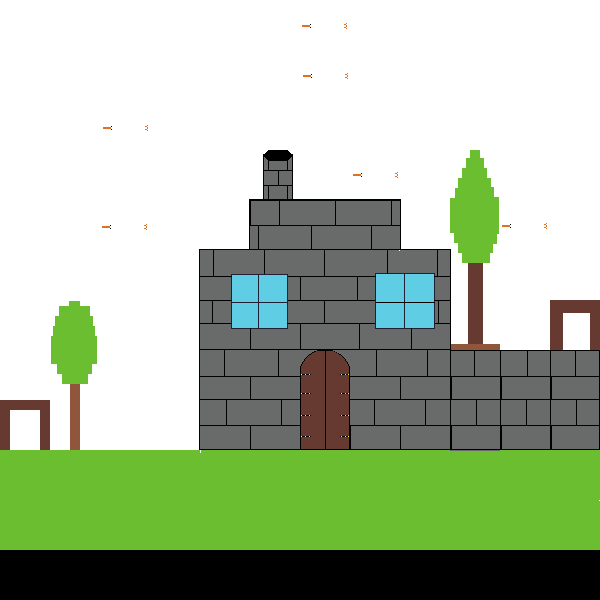
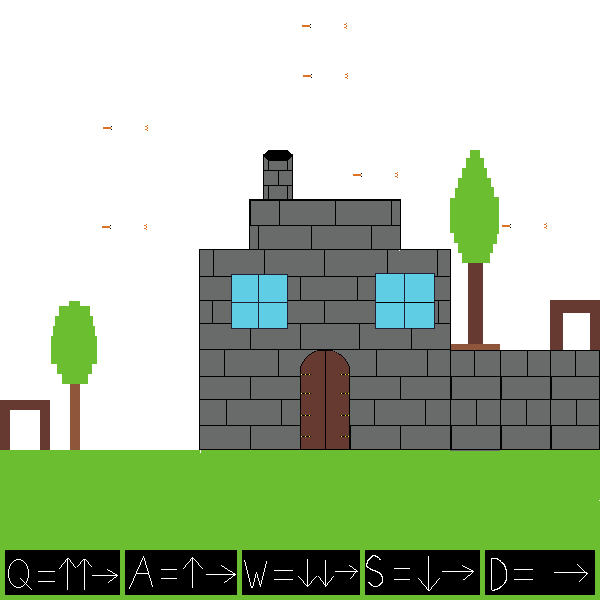
Final Screens all linked together

Changed region(s): [[0.0, 0.9, 1.0, 1.0], [0.09, 0.93, 0.15, 0.96], [0.3, 0.93, 0.33, 0.96]]

diff --git a/game.js b/game.js
@@ -9,26 +9,61 @@ let game = new Application({
     width: 600});
 var player;
 var state;
+var counterX;
+counterX = 1;
+
 document.body.appendChild(game.view);
 pre.add("player.png");
-pre.add("chef.png");
 pre.add("game.png");
+pre.add("WelcomeScreen.png");
+pre.add("credits.png");
+pre.add("blowup.png");
 pre.load(setStage);
     
-function setStage() {
-maze = new Sprite(resources["game.png"].texture);
-player = new Sprite(resources["player.png"].texture);
+let instructions = new PIXI.Text('Press 2 for Instructions', {fontFamily : 'Arial', fontSize: 15, fill : 0x000000, visible : true});
 
-maze.x = 0;
-maze.y = 0;
+let instructionsReal1 = new PIXI.Text('Instructions: Take your hot air balloon to the other side of the castle.' , {fontFamily : 'Arial', fontSize: 15, fill : 0x000000, visible : true});
+let instructionsReal2 = new PIXI.Text('Watch out for obsticles!' , {fontFamily : 'Arial', fontSize: 15, fill : 0x000000, visible : true});
+let instructionsReal3 = new PIXI.Text('If you hit a bird, tree, or the castle you will have to restart. (you can hit the clouds).', {fontFamily : 'Arial', fontSize: 15, fill : 0x000000, visible : true});
+let instructionsReal4 = new PIXI.Text('Controls: (also included at the bottom of the screen during play) ', {fontFamily : 'Arial', fontSize: 15, fill : 0x000000, visible : true});
+let instructionsReal5 = new PIXI.Text('Q: Move 2 Up (and 1 Right)', {fontFamily : 'Arial', fontSize: 15, fill : 0x000000, visible : true});
+let instructionsReal6 = new PIXI.Text('W: Move 2 Down (and 1 Right)', {fontFamily : 'Arial', fontSize: 15, fill : 0x000000, visible : true});
+let instructionsReal7 = new PIXI.Text('A: Move 1 Up (and 1 Right)', {fontFamily : 'Arial', fontSize: 15, fill : 0x000000, visible : true});
+let instructionsReal8 = new PIXI.Text('S: Move 1 Down (and 1 Right)', {fontFamily : 'Arial', fontSize: 15, fill : 0x000000, visible : true});
+let instructionsReal9 = new PIXI.Text('D: Move 1 Right', {fontFamily : 'Arial', fontSize: 15, fill : 0x000000, visible : true});
+
+
+
+let welcomeScreenText = new PIXI.Text('Press 1 to go to Welcome Screen', {fontFamily : 'Arial', fontSize: 15, fill : 0x000000, visible : true});
+
+let startGame = new PIXI.Text('Press 1 to Start Game', {fontFamily : 'Arial', fontSize: 15, fill : 0x000000, visible : true});
+
+
+
+function setStage() {
+background = new Sprite(resources["game.png"].texture);
+player = new Sprite(resources["player.png"].texture);
+welcomeScreen = new Sprite(resources["WelcomeScreen.png"].texture);
+credits = new Sprite(resources["credits.png"].texture);
+gameOver = new Sprite(resources["blowup.png"].texture);
+
+startGame.position.set(220, 319);
+game.stage.addChild(startGame);
+    
+instructions.position.set(220, 382);
+game.stage.addChild(instructions);
+    
+background.x = 0;
+background.y = 0;
 player.x = 0;
-player.y = 300; 
+player.y = 300;
 player.vx = 0;
 player.vy = 0;
+welcomeScreen.x = 0;
+welcomeScreen.y = 0;
 
-game.stage.addChild( maze );
-game.stage.addChild( player );
-
+game.stage.addChild( welcomeScreen );
+    
 let aKey = keyboard( 65 );
 let dKey = keyboard( 68 );
 let wKey = keyboard( 87 );
@@ -36,45 +71,47 @@ let sKey = keyboard( 83 );
 let qKey = keyboard(81);
 let enterKey = keyboard( 13 );
     
-enterKey.press = () =>{        
+    
+    player.x = 0;
+player.y = 300; 
 qKey.press = () => {
   player.x = player.x + 50;
     player.y = player.y - 100;
-    console.log("Player X = " + player.x);
-    console.log("Player Y = " + player.y);
+    //console.log("Player X = " + player.x);
+    //console.log("Player Y = " + player.y);
 };
     
 wKey.press = () => {
   player.x = player.x + 50;
     player.y = player.y + 100;
-    console.log("Player X = " + player.x);
-    console.log("Player Y = " + player.y);
+    //console.log("Player X = " + player.x);
+    //console.log("Player Y = " + player.y);
 };
 
 aKey.press = () => {
   player.x = player.x + 50;
     player.y = player.y - 50;
-    console.log("Player X = " + player.x);
-    console.log("Player Y = " + player.y);
+    //console.log("Player X = " + player.x);
+    //console.log("Player Y = " + player.y);
 };
     
 sKey.press = () => {
   player.x = player.x + 50;
     player.y = player.y + 50;
-    console.log("Player X = " + player.x);
-    console.log("Player Y = " + player.y);
+    //console.log("Player X = " + player.x);
+    //console.log("Player Y = " + player.y);
 };
     
 dKey.press = () => {
   player.x = player.x + 50;
     player.y = player.y + 0;
-    console.log("Player X = " + player.x);
-    console.log("Player Y = " + player.y);
+    //console.log("Player X = " + player.x);
+    //console.log("Player Y = " + player.y);
 };
-}
-        
+     
 state = play;
-game.ticker.add( delta => gameLoop( delta ) );}
+game.ticker.add( delta => gameLoop( delta ) );
+}
 
 function gameLoop( delta )
 {
@@ -83,23 +120,22 @@ state( delta );
 
 function play( delta ) 
 {
-player.x += player.vx;
-player.y += player.vy;
 bounds();
 balloonCollider();
-finish();
+runEverything();
 }
 
 function bounds()
 {
 if(player.x < 0 || player.y < 0)
 {
-window.setTimeout(resetPlayer, 300);
+    window.setTimeout(resetPlayer, 300);
 }
 if(player.x > 550 || player.y > 500)
 {
-window.setTimeout(resetPlayer, 300);
-}}
+    window.setTimeout(resetPlayer, 300);
+}
+}
 
 function balloonCollider()
 {
@@ -119,7 +155,7 @@ function balloonCollider()
     {
         window.setTimeout(resetPlayer, 300);
     }
-        if(player.x == 200 && (player.y >= 250 ))
+        if(player.x == 200 && (player.y >= 200 ))
     {
         window.setTimeout(resetPlayer, 300);
     }
@@ -135,12 +171,10 @@ function balloonCollider()
     {
         window.setTimeout(resetPlayer, 300);
     }
-    if(player.x == 350 && (player.y >= 150) )
+    if(player.x == 350 && (player.y >= 100) )
     {
         window.setTimeout(resetPlayer, 300);
     }
-    
-    
     if(player.x == 400 && (player.y >= 200) )
     {
         window.setTimeout(resetPlayer, 300);
@@ -157,18 +191,123 @@ function balloonCollider()
 
 function resetPlayer()
 {
+    console.log("player was at" + player.x + ","  + player.y + "so playerReset was called and the death animation popped up");
     player.x = 0;
     player.y = 300;
+    game.stage.addChild(gameOver);
+    game.stage.removeChild(background);
+    window.setTimeout(removeCrash, 800);
+    return;
 }
+
+function removeCrash()
+{
+    game.stage.removeChild(gameOver);
+    game.stage.addChild(background);
+}
+
+function runEverything()
+{
+    let oneKey = keyboard( 49 );
+    let twoKey = keyboard( 50 );
+
+    if(player.x == 0 && player.y == 300)
+    {
+        console.log("player is at" + player.x + ", " + player.y + "... so we are in the 0,300 if statement");
+        oneKey.press = () => 
+        {
+            game.stage.removeChild(welcomeScreen);
+            game.stage.addChild(background);
+            game.stage.addChild(player);
+            game.stage.removeChild(instructions);
+            game.stage.removeChild(startGame);
+            game.stage.removeChild(instructionsReal1);
+            game.stage.removeChild(instructionsReal2);
+            game.stage.removeChild(instructionsReal3);
+            game.stage.removeChild(instructionsReal4);
+            game.stage.removeChild(instructionsReal5);
+            game.stage.removeChild(instructionsReal6);
+            game.stage.removeChild(instructionsReal7);
+            game.stage.removeChild(instructionsReal8);
+            game.stage.removeChild(instructionsReal9);
+            return;
+        };
+        twoKey.press = () => 
+        {
+            if(player.x != 0 && player.y != 300)
+            {
+            game.stage.removeChild(instructionsReal1);
+            game.stage.removeChild(instructionsReal2);
+            game.stage.removeChild(instructionsReal3);
+            game.stage.removeChild(instructionsReal4);
+            game.stage.removeChild(instructionsReal5);
+            game.stage.removeChild(instructionsReal6);
+            game.stage.removeChild(instructionsReal7);
+            game.stage.removeChild(instructionsReal8);
+            game.stage.removeChild(instructionsReal9);
+            }
+            else{
+            instructionsReal1.position.set(25, 450);
+            game.stage.addChild(instructionsReal1);
+            instructionsReal2.position.set(25, 470);
+            game.stage.addChild(instructionsReal2);
+            instructionsReal3.position.set(25, 490);
+            game.stage.addChild(instructionsReal3);
+            instructionsReal4.position.set(25, 510);
+            game.stage.addChild(instructionsReal4);
+            instructionsReal5.position.set(25, 530);
+            game.stage.addChild(instructionsReal5);
+            instructionsReal6.position.set(25, 550);
+            game.stage.addChild(instructionsReal6);
+            instructionsReal7.position.set(275, 530);
+            game.stage.addChild(instructionsReal7);
+            instructionsReal8.position.set(275, 550);
+            game.stage.addChild(instructionsReal8);
+            instructionsReal9.position.set(25, 570);
+            game.stage.addChild(instructionsReal9);
+                return;
+            }
+        };
+    }
+    
+    
+    else if(player.x == 550 && player.y == 200)
+    {
+        window.setTimeout(finish, 500)
+    }
+    else if(player.x == 0 && player.y == 0)
+        {
+    console.log("player is at" + player.x + ", " + player.y + "... so we are in the 0,0 if statement");
+            oneKey.press = () => 
+            {
+                game.stage.removeChild(welcomeScreenText);
+                game.stage.addChild(startGame);
+                game.stage.addChild(instructions);
+                game.stage.removeChild(player);
+                game.stage.removeChild(credits);
+                game.stage.removeChild(background);
+                game.stage.addChild(welcomeScreen);
+                player.x = 0;
+                player.y = 300;
+            }
+        }
+}
+
 
 function finish()
 {
-if (player.x == 550 && player.y == 200)
-{
-let finishText = new PIXI.Text('YOU WON', {fontFamily : 'Arial', fontSize: 30, fill : 0x000000, visible : true});
-finishText.position.set(270, 0);
-game.stage.addChild(finishText);}}
-    
+    console.log("player is at" + player.x + ", " + player.y + "... so we are in the 550,200 if statement");
+    game.stage.removeChild(background);
+    player.x = 0;
+    player.y = 0;
+    game.stage.addChild(credits);
+    game.stage.removeChild(player);
+    game.stage.removeChild(gameOver);
+    welcomeScreenText.position.set(220, 319);
+    //game.stage.addChild(welcomeScreenText);
+    return;
+}
+
 function keyboard(keyCode) 
 {
 var key = {};

diff --git a/project_2.html b/project_2.html
@@ -1,0 +1,49 @@
+<!--Bairdi Crab is Back at Red Lobster for Crabfest-->
+
+<!doctype html>
+<meta charset="utf-8">
+
+  <title>Project 2</title>
+
+  <body>
+
+    
+<h1>Floaters</h1>
+
+<h3>Game Instructions:
+</h3>
+      
+<p>Take your hot air balloon to the other side of the castle on the stand. Watch out for obsticles! If you hit a bird, tree, or the castle you will have to restart. (You can hit the clouds). Controls: Since its a windy day, every up or down move you make will also move you to the right 1 square.</p> 
+    <p> Q: Move 2 up (and 1 right)
+    </p>
+      <p>W: Move 2 down (and 1 right)
+    </p>
+      <p>A: Move 1 up (and 1 right)
+    </p>
+      <p>S: Move 1 down (and 1 right)
+    </p>
+      <p>D: Move 1 right
+    </p>
+
+  <p> Press ENTER to start the game.</p> 
+
+<script src="pixi.min.js"></script>
+
+<script src="game.js">
+    </script>
+
+    <div id="disqus_thread"></div>
+
+    <h1>Comments</h1>
+
+    <script>
+		( function() 
+      	{
+        	var d = document, s = d.createElement( 'script' );
+        	s.src = 'http://nau-cs413.disqus.com/embed.js';
+        	s.setAttribute('data-timestamp', + new Date());
+        	( d.head || d.body ).appendChild( s );
+      	} )(); 
+    </script>
+
+  </body>
